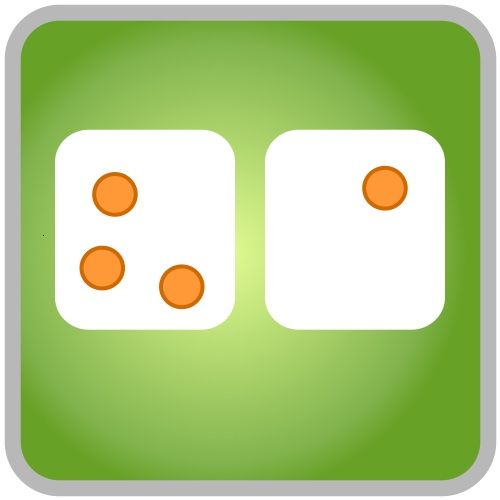
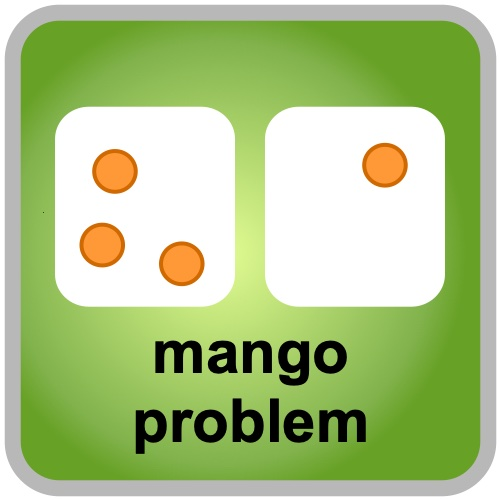
fixing some stuff and more changes for GMW

Changed region(s): [[0.09, 0.3, 0.9, 0.93], [0.51, 0.21, 0.9, 0.42], [0.09, 0.21, 0.48, 0.3]]

diff --git a/targets/wt/index.html b/targets/wt/index.html
@@ -8,6 +8,64 @@ headerapp: 'reimannSum.js'
 ogimage: /assets/images/ogpic.png
 ---
 
+## Global Math Week 2020
+
+In honor of [Global Math Week 2020](https://globalmathproject.org), here is all of our [Exploding Dots](https://gdaymath.com/courses/exploding-dots/) content.  
+
+# --outlinebox gmw2020
+```graphviz/autoplay
+digraph G {
+  tooltip="wildthinks map";
+  fontsize="24";
+  fontname="Arial";
+  size="12,12";
+  bgcolor=transparent;
+
+    subgraph cluster1 {
+
+        strings [shape=none, tooltip="Godel meets Exploding Dots", URL="/pages/expDotsGodel1", label="", image="/assets/images/calculus/strings.svg"];
+
+        negaBinary [shape=none, tooltip="Negative Binary", URL="/pages/NegaBinary1", label="", image="/assets/images/calculus/negaBinary.svg"];
+
+        TwoDdots [shape=none, tooltip="2D dots", URL="javascript:smartdown.setVariable('soon', true);", label="", image="/assets/images/calculus/2Ddots.svg"];
+
+        problem2 [shape=none, tooltip="mango problem", URL="/pages/usamts2", label="", image="/assets/images/calculus/usamts2.svg"];
+
+        FibDots [shape=none, tooltip="Fibonacci dots", URL="javascript:smartdown.setVariable('soon', true);", label="", image="/assets/images/calculus/FibDots.svg"];
+
+        GR [shape=none, tooltip="Goldfish and Robin", URL="/pages/GR", label="", image="/assets/images/calculus/GR.svg"];
+
+        label = "Exploding Dots";
+        style=filled;
+        color=transparent;
+    }
+    
+}
+```
+# --outlinebox
+
+
+```javascript /autoplay
+
+const otherDiv = document.getElementById('gmw2020');
+otherDiv.classList.remove('decoration-outlinebox');
+
+otherDiv.style.border = '2px solid #DDDDDD';
+otherDiv.style.borderRadius = '25px';
+otherDiv.style.backgroundColor = '#EEEEEE';
+
+
+```
+
+## Visual Calculus
+
+The Calculus Lessons give a truly interactive introduction to the ideas of calculus.
+
+The first three chapters are entirely geometric.  They require only familiarity with functions in the $(x,y)$ plane and an understanding of ratios and rates.  They are a fantastic introduction to the ideas of calculus.
+
+The remaining chapters are intended to supplement a standard calculus class.  They give interactive explanations of the major results from first year calculus.
+
+
 # --outlinebox calculus
 
 ```graphviz/autoplay
@@ -54,7 +112,6 @@ digraph G {
 
 
 ```javascript /autoplay
-
 console.log('fixing style');
 const calcDiv = document.getElementById('calculus');
 calcDiv.classList.remove('decoration-outlinebox');
@@ -62,16 +119,8 @@ calcDiv.classList.remove('decoration-outlinebox');
 calcDiv.style.border = '2px solid #DDDDDD';
 calcDiv.style.borderRadius = '25px';
 calcDiv.style.backgroundColor = '#EEEEEE';
-
-
 ```
 
-#### What's in Calculus?
-The Calculus Lessons give a truly interactive introduction to the ideas of calculus.
-
-The first three chapters are entirely geometric.  They require only familiarity with functions in the $(x,y)$ plane and an understanding of ratios and rates.  They are a fantastic introduction to the ideas of calculus.
-
-The remaining chapters are intended to supplement a standard calculus class.  They give interactive explanations of the major results from first year calculus.
 
 
 # :::: coming_soon
@@ -115,13 +164,7 @@ digraph G {
         color=transparent;
     }
 
-    subgraph cluster2 {
-        negaBinary [shape=none, tooltip="Negative Binary", URL="/pages/NegaBinary1", label="", image="/assets/images/calculus/negaBinary.svg"];
-        strings [shape=none, tooltip="Godel meets Exploding Dots", URL="/pages/expDotsGodel1", label="", image="/assets/images/calculus/strings.svg"];
-        label = "Exploding Dots";
-        style=filled;
-        color=transparent;
-    }
+
 
     subgraph cluster3 {
         fractal [shape=none, tooltip="Fractal Generator", URL="/pages/fractal", label="", image="/assets/images/calculus/fractal.svg"];
@@ -133,9 +176,6 @@ digraph G {
         style=filled;
         color=transparent;
         edge[style=invis];
-        { rank=same; penrose, fractal }
-        fractal -> circles;
-        penrose -> circles;
   }
     
 }
@@ -154,7 +194,6 @@ otherDiv.style.backgroundColor = '#EEEEEE';
 
 
 ```
-
 
 
 

diff --git a/targets/wt/_includes/smartdown_footer.html b/targets/wt/_includes/smartdown_footer.html
@@ -18,6 +18,9 @@
     'epsilonDelta': `/assets/images/calculus/epsilonDelta.svg`,
     'penrose' : `/assets/images/calculus/penrose.svg`,
     'circles' : `/assets/images/calculus/circles.svg`,
+    'GR' : `/assets/images/calculus/GR.svg`,
+    'Fib' : `/assets/images/calculus/FibDots.svg`,
+    '2Ddots' : `/assets/images/calculus/2Ddots.svg`
   };
 
   var multiparts = null;
